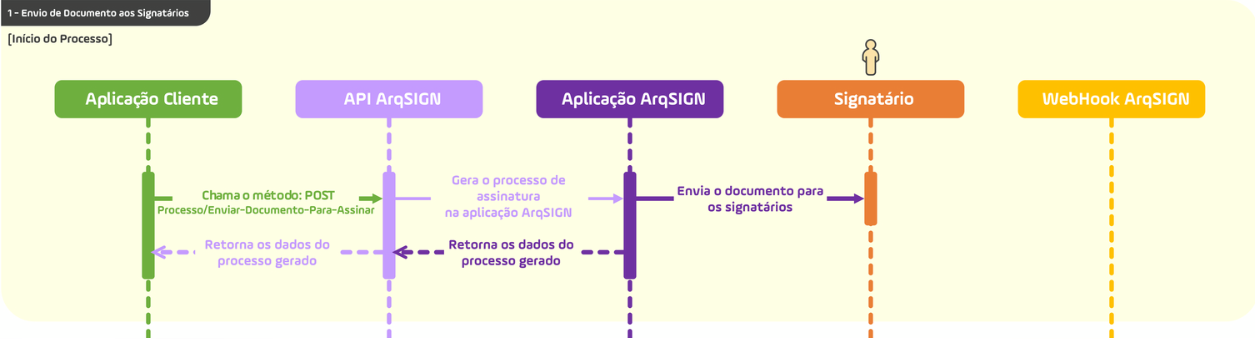
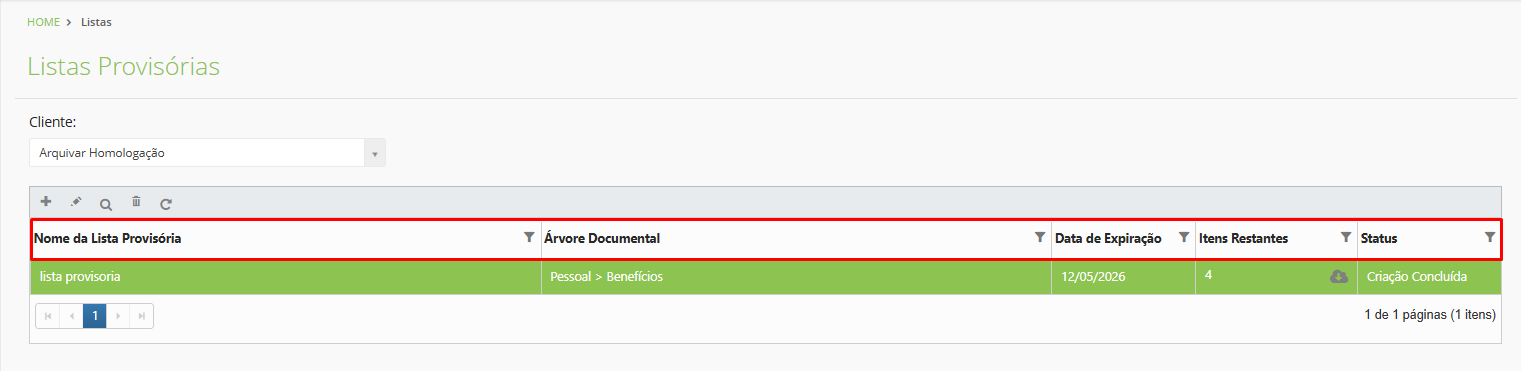
GITBOOK-1094: No subject

diff --git a/lista/listas-provisorias.md b/lista/listas-provisorias.md
@@ -1,22 +1,34 @@
 # 🟩 Listas Provisórias
 
-Neste Submenu deve ser feita a configuração da Lista Provisória, conforme tipo documental correspondente.
+Neste Submenu deve ser feita a configuração da Lista Provisória, conforme nó de árvore correspondente.
 
 Na tela inicial do submenu, temos:
 
-<figure><img src="../.gitbook/assets/image (2).png" alt=""><figcaption><p>Clique na imagem para ampliar.</p></figcaption></figure>
+<figure><img src="../.gitbook/assets/image (368).png" alt=""><figcaption><p>Clique na imagem para ampliar.</p></figcaption></figure>
 
 **Cliente:** É exibida uma lista com todos os clientes da Unidade para seleção.
 
-**➕Adicionar:** Permite a inclusão da configuração de uma nova lista.
+**Adicionar:** Permite a inclusão da configuração de uma nova lista.
 
-**✏Editar:** Após selecionar uma lista na tela, ao clicar no ícone é possível editar os dados de uma lista já configurada.
+**Editar:** Após selecionar uma lista na tela, ao clicar no ícone é possível editar os dados de uma lista já configurada.
 
-**🔎Visualizar:** Após selecionar uma lista na tela, ao  clicar neste ícone, é possível visualizar todas as informações inseridas no cadastro de uma lista provisória.
+**Visualizar:** Após selecionar uma lista na tela, ao  clicar neste ícone, é possível visualizar todas as informações inseridas no cadastro de uma lista provisória.
 
-🗑**Excluir:** Após selecionar a lista, ao clicar no ícone a lista é excluída.
+**Excluir:** Após selecionar a lista, ao clicar no ícone a lista é excluída.
 
-&#x20;**🔄Atualizar:** Inserida uma nova lista ou excluída, clique no ícone para atualização da página.
+**Atualizar:** Inserida uma nova lista ou excluída, clique no ícone para atualização do status da lista criada.
+
+<figure><img src="../.gitbook/assets/image (369).png" alt=""><figcaption><p>Clique ne imagem para ampliar.</p></figcaption></figure>
+
+**Coluna Nome da Lista:** Exibe o nome definido para a lista no momento do cadastro.
+
+**Coluna Árvore Documental:** Exibe a Árvore selecionada uso da lista no momento do cadastro.
+
+**Coluna Data de Expiração:** Exibe a data definida para limite de uso da lista.
+
+**Coluna Itens Restantes:** Exibe a contagem dos itens existentes na lista ainda não utilizados na indexação, além de permitir pelo ícone de download a exportação desses itens.
+
+**Coluna Status:** Exibe o status do cadastro da lista no ArqGED.
 
 ## Configurando uma Lista Provisória
 
@@ -60,5 +72,7 @@ Ao carregar o arquivo, são exibidos na tela na coluna "Campos da Planilha a com
 
 **Coluna Preview:** É permitida a seleção de mais de um campo "Preview", quando feito, é habilitado o campo "Ordem" para que seja indicada a ordem de apresentação do campo na indexação.
 
-**Coluna Ordem:** É habilitado para preenchimento conforme uso da coluna anterior "Preview", ela é utilizada para definir a ordem de apresentação dos campos de indexação.
+**Coluna Ordem:** É habilitado para preenchimento conforme uso da coluna anterior "Preview", ela é utilizada para definir a ordem de apresentação dos campos de indexação. É permitido habilitar até três campos como preview.
+
+**Coluna Importação:** Exibe um ícones indicando o status da importação da planilha.
 
